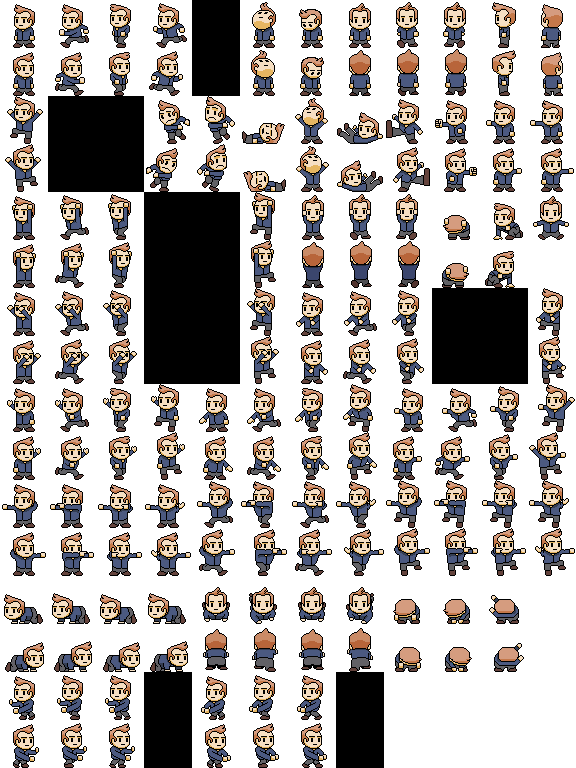
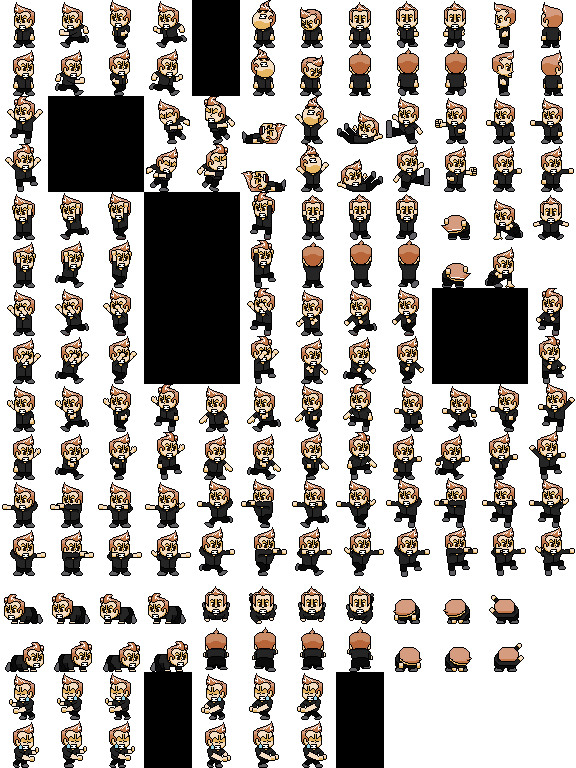
change costume

diff --git a/player.cc b/player.cc
@@ -7,9 +7,7 @@ using namespace std;
 
 enum Action{none, kick, punch};
 
-
 class Player {
-
     private:
         char costume = '1';
         Texture texture;
@@ -23,7 +21,7 @@ class Player {
                 if (dx == 0){
                     frame = 0;
                     y = (lx+1)/2;
-                } 
+                }
                 else {
                     x = 1;
                     y = (1 == dx);
@@ -63,13 +61,14 @@ class Player {
         void update(float dt){
             t += dt;
             if (t > 0.1){
-                
                 animate();
                 t = 0;
                 if (dx != 0)
                     lx = dx;
             }
             sprite.move(dx*speed, dy*speed);
+            if (sprite.getPosition().y > 300)
+                sprite.setPosition(Vector2f(sprite.getPosition().x, 300)) ;
         }
 
         void use(Action a){
@@ -80,6 +79,8 @@ class Player {
             char path[] = "img/character/1.png";
             if (c == '0')
                 c = ++costume;
+            if (c == '8')
+                costume = '1';
             path[14] = c;
             cout << path << endl;
             if (!texture.loadFromFile(path));

diff --git a/main.cc b/main.cc
@@ -2,7 +2,6 @@
 #include <iostream>
 #include "player.cc"
 #include "tutorial.cc"
-#include "character.cc"
 
 #define WIDTH 960
 #define HEIGHT 640
@@ -29,7 +28,7 @@ void _load(){
 }
 
 void _event(){
-    while (window.pollEvent(event)){        
+    while (window.pollEvent(event)){
         switch (event.type) {
             // QUIT
             case Event::Closed:{
@@ -84,7 +83,8 @@ void _update(float dt){
 }
 
 void _draw(){
-    window.clear();
+    window.clear(Color(100,100,100,1));
+
     window.draw(player.sprite);
     tutorial.draw(window);
     window.display();

diff --git a/tutorial.cc b/tutorial.cc
@@ -16,6 +16,7 @@ class Tutorial {
             if (!texture.loadFromFile("img/tutorial.png"));
                 texture.setSmooth(true);
             sprite.setTexture(texture);
+            sprite.scale(Vector2f(1.5, 1));
 
             sprite.setPosition(Vector2f(0, 400));
 

diff --git a/README.md b/README.md
@@ -1,1 +1,3 @@
 # Test SFML
+
+<img src="img/readme/001.png"/>
